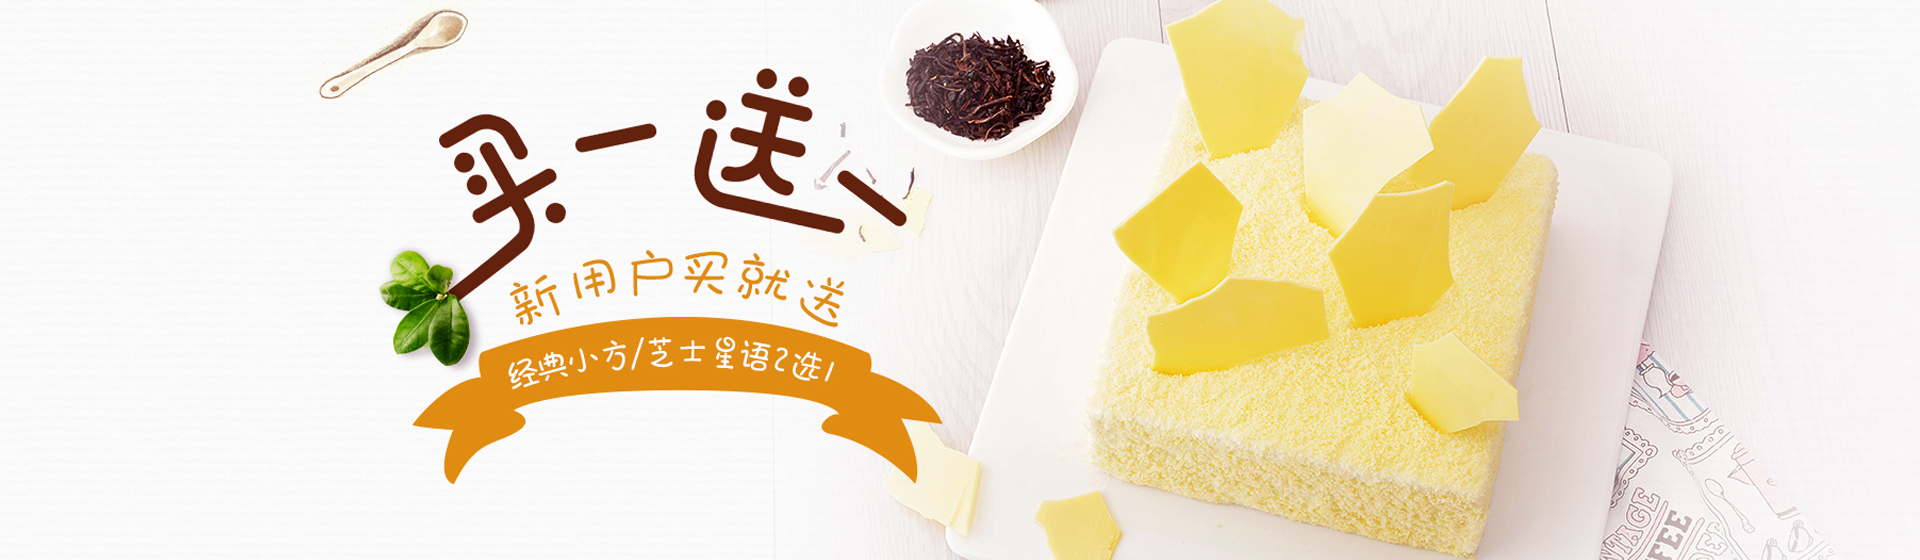
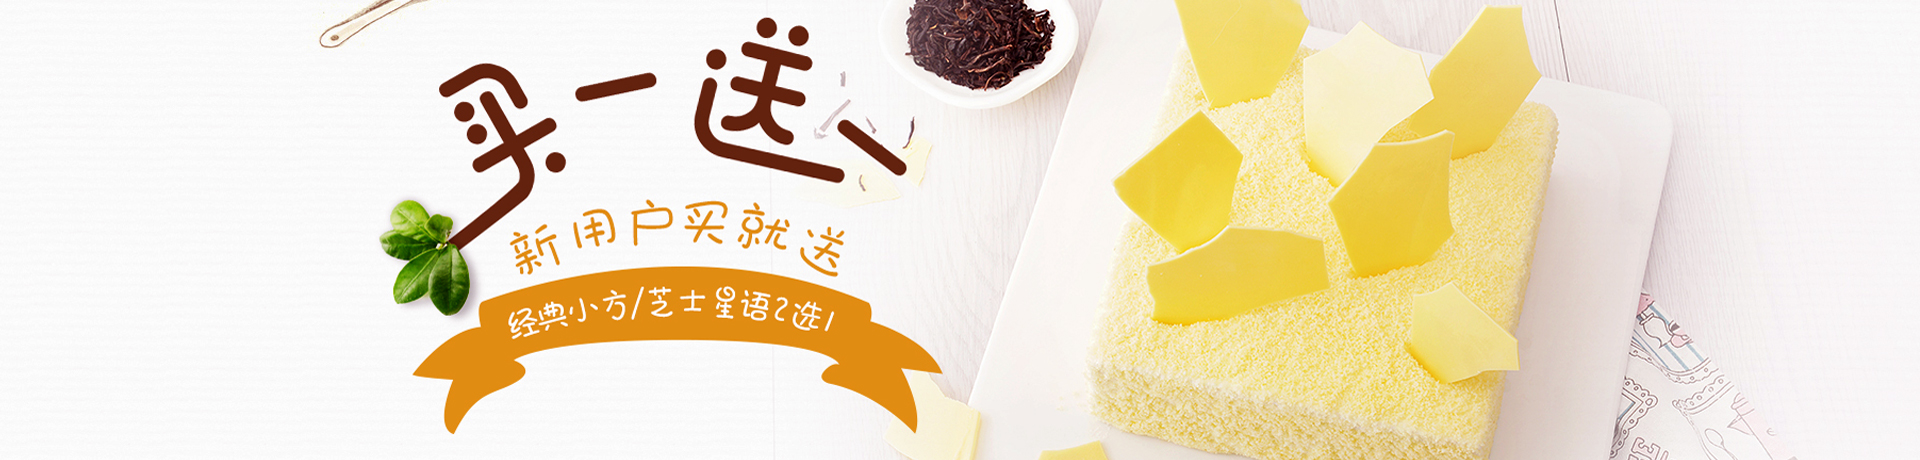
调整首页样式

diff --git a/src/assets/scss/index.scss b/src/assets/scss/index.scss
@@ -88,21 +88,21 @@
 		position: relative;
 		z-index: 999;
 		width: 270px;
-		height: 204px;
+		height: 172px;
 		background: {
 			image: url('../imgs/index/section_title_bg.png');
 			repeat: no-repeat;
 			size: cover;
 			position: center center;
 		}
-		
+
 		p {
 			color: #e9546b;
 			text-align: center;
 		}
 		.cn {
 			height: 26px;
-			padding-top: 80px;
+			padding-top: 68px;
 			line-height: 26px;
 			font-size: 26px;
 		}
@@ -129,7 +129,7 @@
 
 	.section-title {
 		position: absolute;
-		top: -27px;
+		top: -29px;
 		left: 50%;
 		margin-left: -135px;
 	}
@@ -148,7 +148,8 @@
 			left: 0;
 		}
 		&.flower {
-			top:257px;
+			height: 223px;
+			top: 197px;
 			left: 50%;
 			margin-left: -135px;
 		}
@@ -188,7 +189,7 @@
 			font-size: 16px;
 			color: #fff;
 			background-color: rgba(233, 84, 107, 0.8);
-		}		
+		}
 
 		&:hover .text {
 			color: #e9546b;
@@ -199,13 +200,13 @@
 
 .ad-container {
 	width: 100%;
-	border-top: 1px solid #eaeaea;
+	border-top: 2px solid #eaeaea;
 	border-bottom: 2px solid #eaeaea;
 
 	.ad-wrapper {
 		position: relative;
 		width: 1200px;
-		height: 560px;
+		height: 460px;
 		margin: 0 auto;
 
 		.ad {
@@ -214,13 +215,13 @@
 			top: 0;
 			left: 50%;
 			width: 1920px;
-			height: 560px;
+			height: 460px;
 			margin-left: -960px;
 			overflow: hidden;
 
 			img {
 				width: 1920px;
-				height: 560px;
+				height: 460px;
 			}
 		}
 	}
